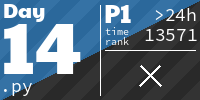
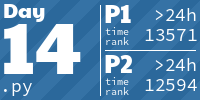
[2019/14] p2 solved

diff --git a/2019/14/script.py b/2019/14/script.py
@@ -56,6 +56,21 @@ def main():
     ore = ore_for_n_fuel(1, reactions)
     print('p1:', ore)
 
+    # binary search the amount of fuel we can make without going over 1e12 ore
+    low = 1
+    high = 1e12
+    while low < high - 1:
+        test = (low + high) // 2
+        ore = ore_for_n_fuel(test, reactions)
+        if ore > 1e12:
+            high = test
+        elif ore < 1e12:
+            low = test
+        else:
+            low = test
+            break
+    print('p2:', int(low))
+
 
 if __name__ == "__main__":
     main()

diff --git a/README.md b/README.md
@@ -129,7 +129,7 @@ My solutions to the yearly Advents of Code
   <img src=".aoc_tiles/tiles/2022/15.png" width="161px">
 </a>
 <h1 align="center">
-  2019 - 27 ⭐
+  2019 - 28 ⭐
 </h1>
 <a href="2019/1/script.py">
   <img src=".aoc_tiles/tiles/2019/01.png" width="161px">
